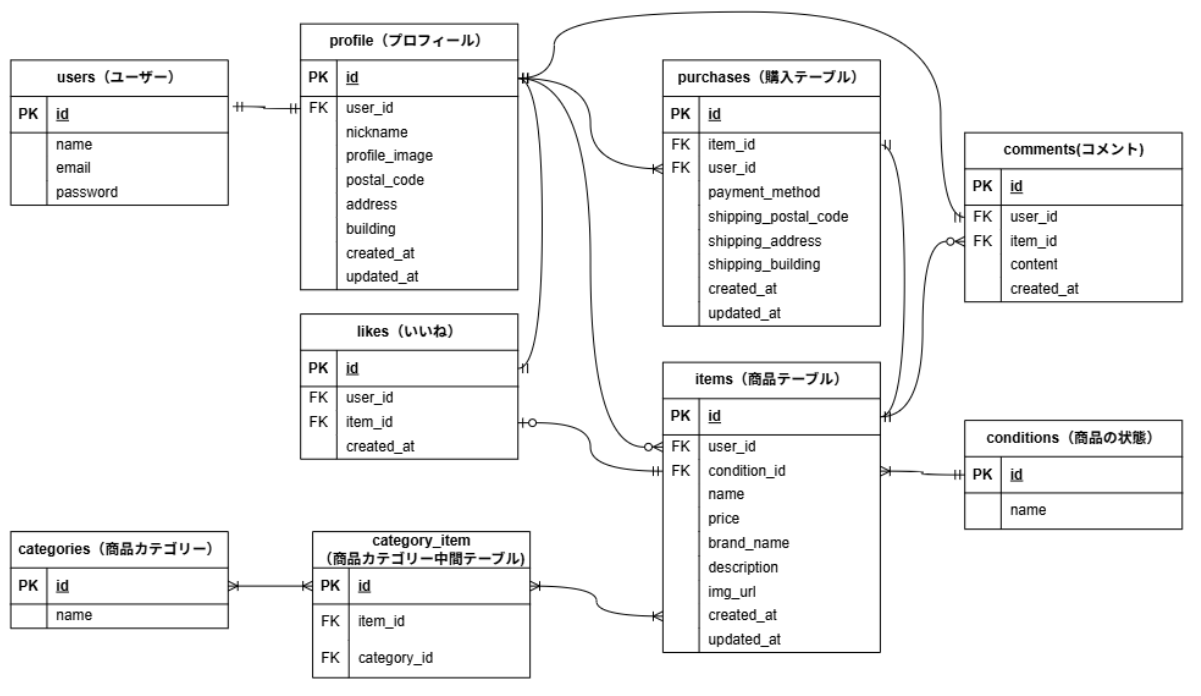
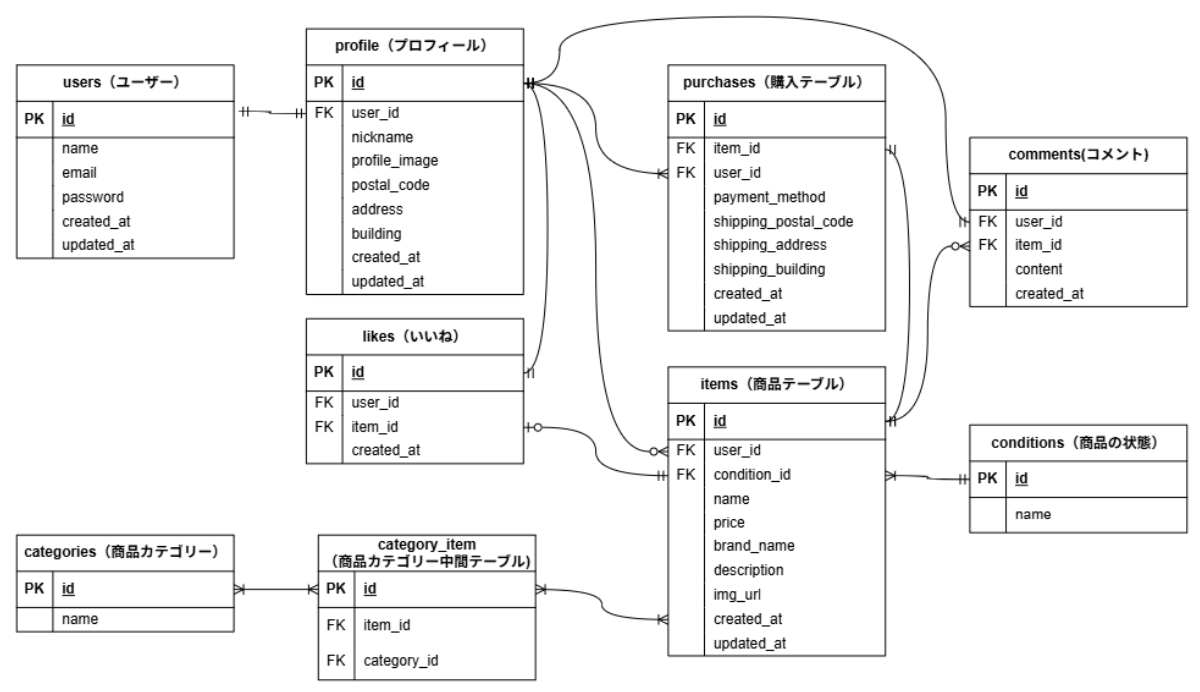
ER図の変更・マイグレーションファイル作成

Changed region(s): [[0.0, 0.0, 1.0, 1.0]]

diff --git a/src/database/migrations/2026_06_12_150351_create_items_table.php b/src/database/migrations/2026_06_12_150351_create_items_table.php
@@ -1,0 +1,39 @@
+<?php
+
+use Illuminate\Database\Migrations\Migration;
+use Illuminate\Database\Schema\Blueprint;
+use Illuminate\Support\Facades\Schema;
+
+class CreateItemsTable extends Migration
+{
+    /**
+     * Run the migrations.
+     *
+     * @return void
+     */
+    public function up()
+    {
+        Schema::create('items', function (Blueprint $table) {
+            $table->id();
+            $table->foreignId('user_id')->constrained();
+            $table->foreignId('condition_id')->constrained();
+            $table->string('name', 255);
+            $table->integer('price')->unsigned();
+            $table->string('brand_name', 255)->nullable();
+            $table->text('description');
+            $table->string('image_url', 255);
+
+            $table->timestamps();
+        });
+    }
+
+    /**
+     * Reverse the migrations.
+     *
+     * @return void
+     */
+    public function down()
+    {
+        Schema::dropIfExists('items');
+    }
+}

diff --git a/src/database/migrations/2026_06_12_150428_create_purchases_table.php b/src/database/migrations/2026_06_12_150428_create_purchases_table.php
@@ -1,0 +1,38 @@
+<?php
+
+use Illuminate\Database\Migrations\Migration;
+use Illuminate\Database\Schema\Blueprint;
+use Illuminate\Support\Facades\Schema;
+
+class CreatePurchasesTable extends Migration
+{
+    /**
+     * Run the migrations.
+     *
+     * @return void
+     */
+    public function up()
+    {
+        Schema::create('purchases', function (Blueprint $table) {
+            $table->id();
+            $table->foreignId('user_id')->constrained();
+            $table->foreignId('item_id')->constrained();
+            $table->string('payment_method', 255);
+            $table->string('shipping_postal_code', 8);
+            $table->string('shipping_address', 255);
+            $table->string('shipping_building', 255)->nullable();
+        
+            $table->timestamps();
+        });
+    }
+
+    /**
+     * Reverse the migrations.
+     *
+     * @return void
+     */
+    public function down()
+    {
+        Schema::dropIfExists('purchases');
+    }
+}

diff --git a/src/database/migrations/2026_06_12_150320_create_profiles_table.php b/src/database/migrations/2026_06_12_150320_create_profiles_table.php
@@ -1,0 +1,37 @@
+<?php
+
+use Illuminate\Database\Migrations\Migration;
+use Illuminate\Database\Schema\Blueprint;
+use Illuminate\Support\Facades\Schema;
+
+class CreateProfilesTable extends Migration
+{
+    /**
+     * Run the migrations.
+     *
+     * @return void
+     */
+    public function up()
+    {
+        Schema::create('profiles', function (Blueprint $table) {
+            $table->id();
+            $table->foreignId('user_id')->unique()->constrained()->onDelete('cascade');
+            $table->string('nickname', 255)->unique();
+            $table->string('profile_image', 255)->nullable();
+            $table->string('postal_code', 8);
+            $table->string('address', 255);
+            $table->string('building', 255)->nullable();
+            $table->timestamps();
+        });
+    }
+
+    /**
+     * Reverse the migrations.
+     *
+     * @return void
+     */
+    public function down()
+    {
+        Schema::dropIfExists('profiles');
+    }
+}

diff --git a/src/database/migrations/2026_06_12_150410_create_category_item_table.php b/src/database/migrations/2026_06_12_150410_create_category_item_table.php
@@ -1,0 +1,35 @@
+<?php
+
+use Illuminate\Database\Migrations\Migration;
+use Illuminate\Database\Schema\Blueprint;
+use Illuminate\Support\Facades\Schema;
+
+class CreateCategoryItemTable extends Migration
+{
+    /**
+     * Run the migrations.
+     *
+     * @return void
+     */
+    public function up()
+    {
+        Schema::create('category_item', function (Blueprint $table) {
+            $table->id();
+            $table->foreignId('category_id')->constrained();
+            $table->foreignId('item_id')->constrained();
+
+            // 同じカテゴリーと商品の組み合わせの重複を防ぐ
+            $table->unique(['category_id', 'item_id']);
+        });
+    }
+
+    /**
+     * Reverse the migrations.
+     *
+     * @return void
+     */
+    public function down()
+    {
+        Schema::dropIfExists('category_item');
+    }
+}

diff --git a/src/database/migrations/2026_06_12_150443_create_likes_table.php b/src/database/migrations/2026_06_12_150443_create_likes_table.php
@@ -1,0 +1,35 @@
+<?php
+
+use Illuminate\Database\Migrations\Migration;
+use Illuminate\Database\Schema\Blueprint;
+use Illuminate\Support\Facades\Schema;
+
+class CreateLikesTable extends Migration
+{
+    /**
+     * Run the migrations.
+     *
+     * @return void
+     */
+    public function up()
+    {
+        Schema::create('likes', function (Blueprint $table) {
+            $table->id();
+            $table->foreignId('user_id')->constrained();
+            $table->foreignId('item_id')->constrained();
+            $table->timestamp('created_at')->useCurrent();
+
+            $table->unique(['user_id', 'item_id']);
+        });
+    }
+
+    /**
+     * Reverse the migrations.
+     *
+     * @return void
+     */
+    public function down()
+    {
+        Schema::dropIfExists('likes');
+    }
+}